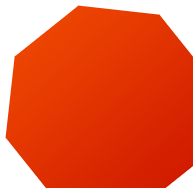
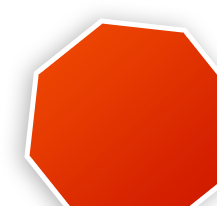
amlost done with hostile already

Changed region(s): [[0.0311, 0.0266, 1.0, 1.0], [0.8394, 0.8777, 1.0, 1.0]]

diff --git a/styles.less b/styles.less
@@ -87,8 +87,8 @@ body.thanks {
   height: 192px;
   bottom: 0;
   right: 0;
-  width: 199px;
-  height: 192px;
+  width: 193px;
+  height: 188px;
   z-index: 10;
 }
 .help .legislator-image .image-overlay {
@@ -143,12 +143,23 @@ body.thanks {
   width: 100%;
   top: 42px;
 }
-.help .map-pin,
 .hostile .map-pin {
   position: absolute;
   font-family: "proxima-nova", Arial;
   font-weight: 800;
   font-size: 40px;
+  color: rgb(255, 255, 255);
+  text-shadow: 1px 2px rgba( 0, 0, 0, 0.2);
+  height: 50px;
+  width: 50px;
+  margin: 91px 0 0 372px;
+}
+.help .map-pin {
+  position: absolute;
+  font-family: "proxima-nova", Arial;
+  font-weight: 800;
+  font-size: 40px;
+  color: rgb(0, 0, 0);
   text-shadow: 1px 2px rgba( 0, 0, 0, 0.2);
   height: 50px;
   width: 50px;
